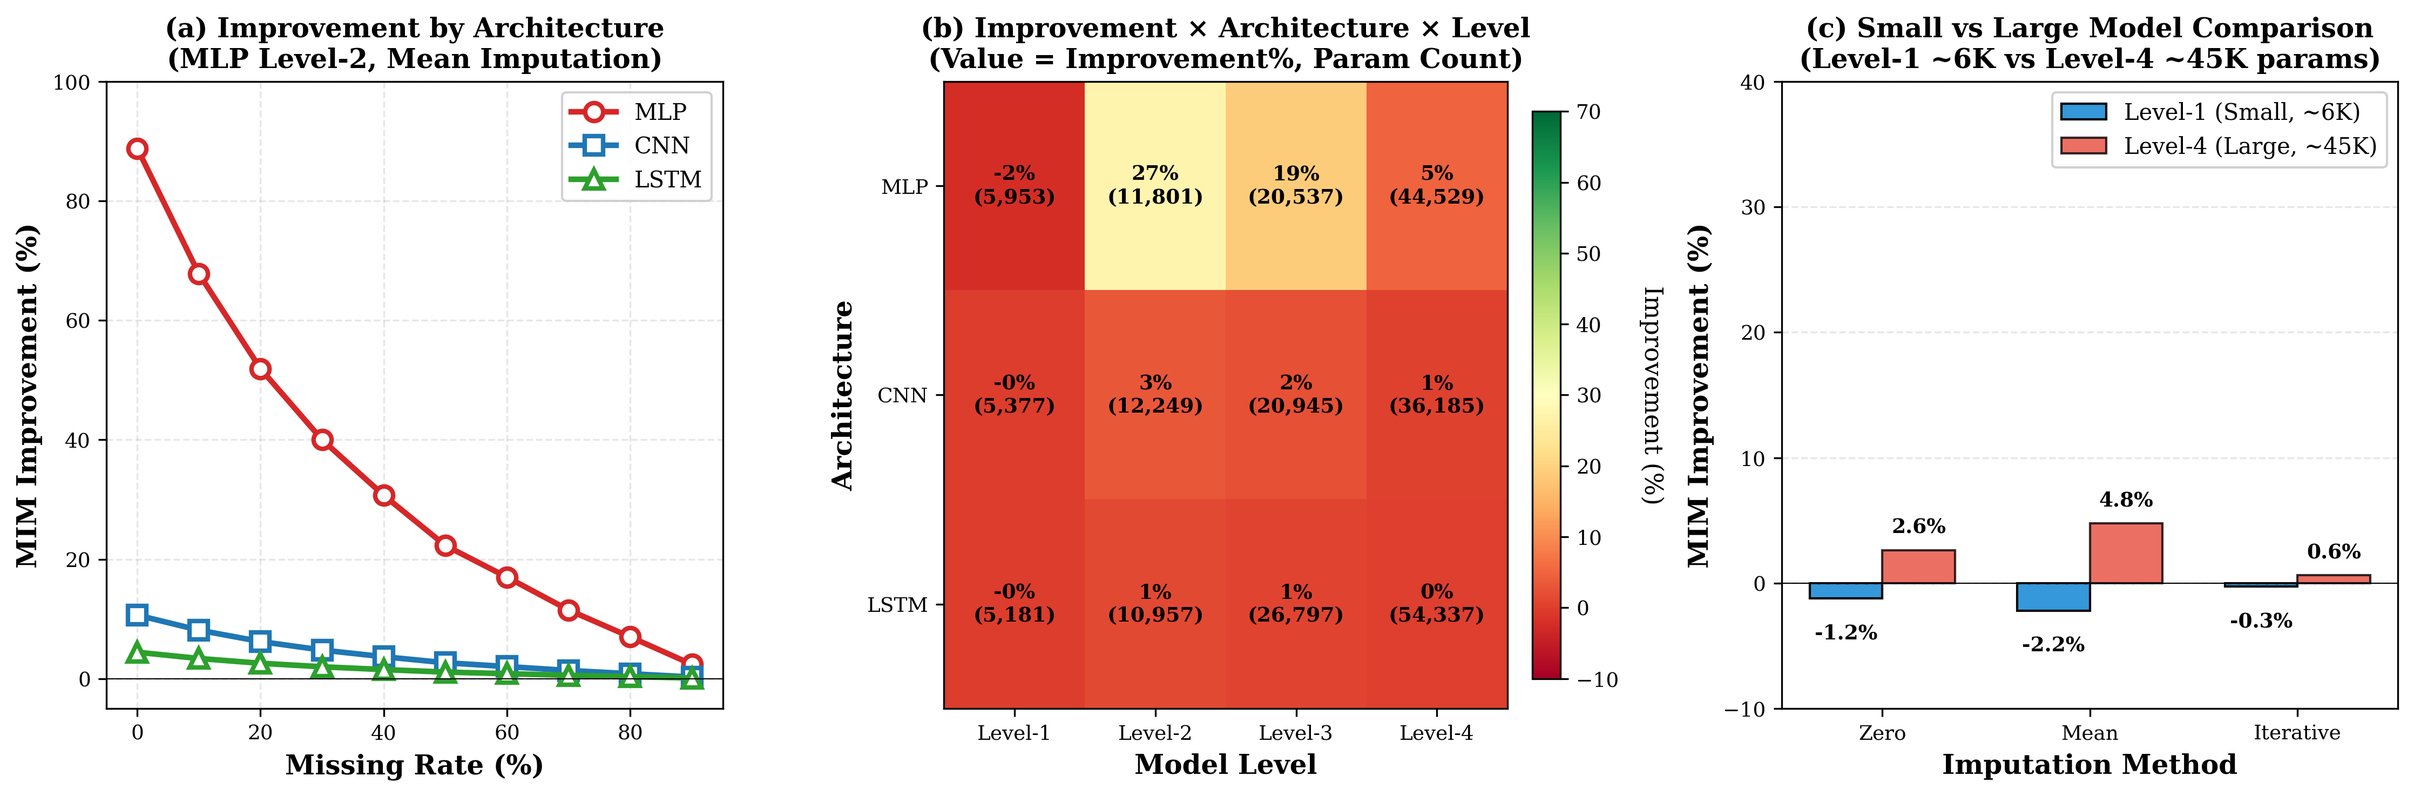
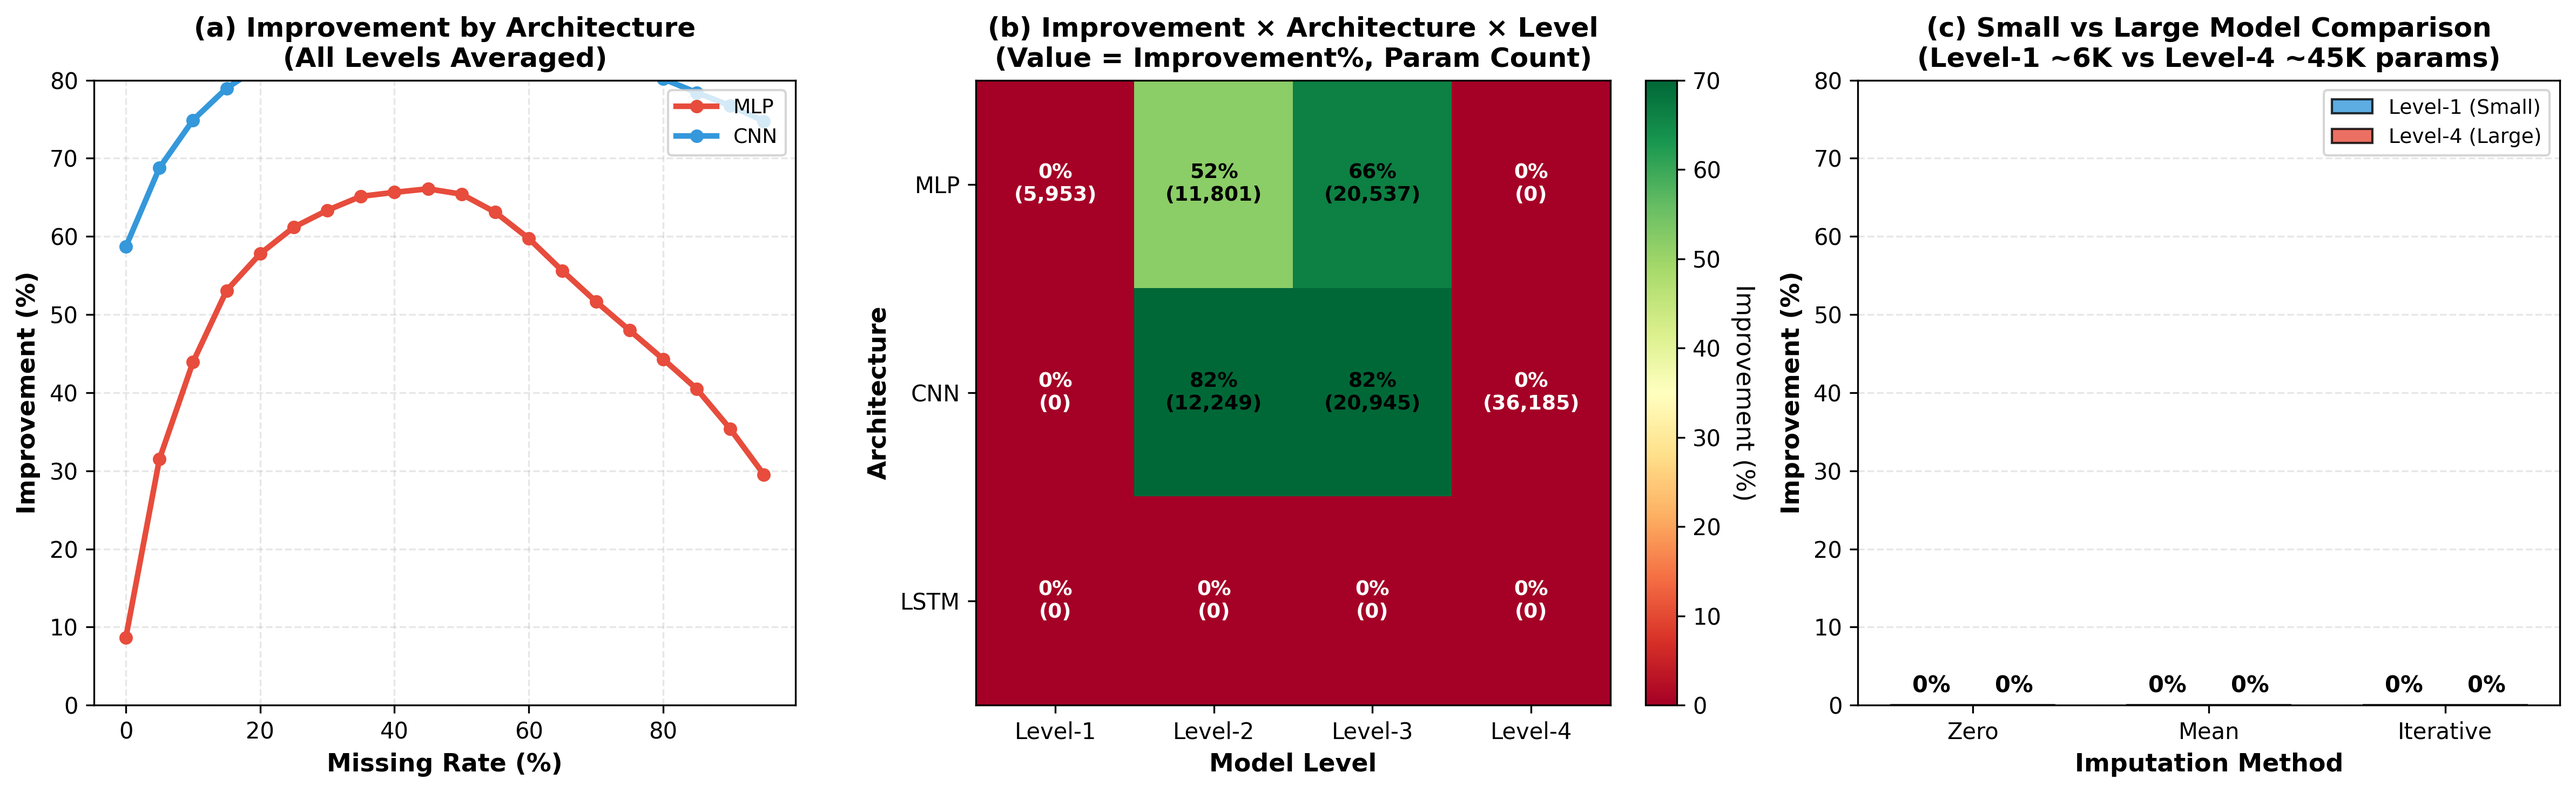
fix(paper): 修复图片引用路径，统一放到figures目录
- 更新所有includegraphics路径为新的描述性文件名

- 复制v0.5图表到paper/figures/目录

- image.png重命名为experimental_flow.png

- 简化graphicspath为{figures/}

diff --git a/paper/main_en.tex b/paper/main_en.tex
@@ -41,7 +41,7 @@
 \usepackage{threeparttable}
 
 % Image paths
-\graphicspath{{figures/}{../experiments_new/figures/paper_figures/v0.5/}}
+\graphicspath{{figures/}}
 
 \begin{document}
 
@@ -82,7 +82,7 @@ When input features exhibit significant missing data, traditional data-driven mo
 
 \begin{figure*}[!htb]
     \centering
-    \includegraphics[width=\textwidth]{fig1_problem_scenario.png}
+    \includegraphics[width=\textwidth]{problem_scenario.png}
     \caption{Schematic diagram of data missing problems in battery SOH prediction. (a) BMS monitoring chain and potential failure sources; (b) Cycle-level feature matrix and MCAR missing patterns.}
     \label{fig:problem_scenario}
 \end{figure*}
@@ -209,7 +209,7 @@ Figure~\ref{fig:baseline_vs_mim} illustrates the structural difference between t
 
 \begin{figure}[!htb]
     \centering
-    \includegraphics[width=\columnwidth]{fig2_baseline_vs_mim.png}
+    \includegraphics[width=\columnwidth]{baseline_vs_mim_comparison.png}
     \caption{Comparison of Baseline and MIM input strategies. (a) Baseline: 16-dimensional imputed features $\hat{X}$; (b) MIM: concatenated 32-dimensional extended input $[\hat{X} \,|\, M]$.}
     \label{fig:baseline_vs_mim}
 \end{figure}
@@ -263,7 +263,7 @@ Figure~\ref{fig:joint_training} illustrates the multi-missing-rate joint trainin
 
 \begin{figure*}[!htb]
     \centering
-    \includegraphics[width=\textwidth]{fig4_joint_training.png}
+    \includegraphics[width=\textwidth]{joint_training_strategy.png}
     \caption{Multi-missing-rate joint training process. The original training set generates copies at 10 missing rates, which after MIM construction are merged into $\mathcal{D}_{\text{augmented}}$ for training a unified MIM model.}
     \label{fig:joint_training}
 \end{figure*}
@@ -539,7 +539,7 @@ The complete experimental pipeline, from data preprocessing through model traini
 
 \begin{figure*}[!htbp]
     \centering
-    \includegraphics[width=0.95\textwidth]{figure6_experimental_flow.png}
+    \includegraphics[width=0.95\textwidth]{experimental_flow.png}
     \caption{Experimental pipeline overview: from XJTU battery dataset through data preprocessing, layer-wise greedy experimental design (L1--L5), to final evaluation and BMS configuration recommendations.}
     \label{fig:experimental_flow}
 \end{figure*}
@@ -558,7 +558,7 @@ The primary selection criterion is the MIM improvement rate, defined as $\Delta_
 
 \begin{figure*}[!htbp]
     \centering
-    \includegraphics[width=\textwidth]{figures/greedy_ablation_4panel.png}
+    \includegraphics[width=\textwidth]{greedy_ablation.png}
     \caption{Greedy layer-wise ablation results. (a) Layer 1: architecture comparison (MLP, CNN, LSTM); (b) Layer 2: model scale (Level 1--4); (c) Layer 3: imputation method (Zero, Mean, Iterative); (d) Layer 4: missing mechanism (MCAR, MAR, MNAR). Improvement rate = $(\text{MAE}_{\text{BL}} - \text{MAE}_{\text{MIM}}) / \text{MAE}_{\text{BL}} \times 100\%$.}
     \label{fig:greedy_ablation}
 \end{figure*}
@@ -576,7 +576,7 @@ The inverted-U trend across model scales is clearly visible in Figure~\ref{fig:g
 
 \begin{figure*}[!htbp]
     \centering
-    \includegraphics[width=0.9\textwidth]{figure4_architecture_scaling_v2.png}
+    \includegraphics[width=0.9\textwidth]{architecture_scaling.png}
     \caption{Model scale vs. MIM improvement rate across four parameter levels (Level 1--4). Left: MAE comparison between Baseline and MIM; Right: improvement rate and MAE reduction. MLP architecture, Mean imputation, MCAR mechanism, 3 seeds.}
     \label{fig:architecture_scaling}
 \end{figure*}
@@ -588,7 +588,7 @@ The third layer characterizes the critical interaction between imputation qualit
 
 \begin{figure*}[!htbp]
     \centering
-    \includegraphics[width=\textwidth]{figures/improvement_vs_mr.png}
+    \includegraphics[width=\textwidth]{improvement_vs_missing_rate.png}
     \caption{MIM improvement rate vs. missing rate (MR) for three imputation methods under the optimal configuration (MLP, Level 2, MCAR). The shaded region denotes $\pm$1 standard deviation across 3 random seeds.}
     \label{fig:improvement_vs_mr}
 \end{figure*}
@@ -613,7 +613,7 @@ A consistent gradient is observed across imputation strategies (Figure~\ref{fig:
 
 \begin{figure*}[!htbp]
     \centering
-    \includegraphics[width=0.9\textwidth]{figure3_imputation_gradient_v2.png}
+    \includegraphics[width=0.9\textwidth]{imputation_gradient.png}
     \caption{Imputation method comparison under the optimal configuration (MLP, Level 2, MCAR). MAE curves for Zero, Mean, and Iterative imputation under Baseline and MIM strategies across missing rates.}
     \label{fig:imputation_gradient}
 \end{figure*}
@@ -627,7 +627,7 @@ The mechanism comparison is shown in Figure~\ref{fig:greedy_ablation}(d) and det
 
 \begin{figure*}[!htbp]
     \centering
-    \includegraphics[width=0.9\textwidth]{figure2_missing_mechanisms_v2.png}
+    \includegraphics[width=0.9\textwidth]{missing_mechanisms.png}
     \caption{MAE comparison across three missing data mechanisms (MCAR, MAR, MNAR) under Baseline and MIM strategies. MLP + Level 2 + Mean imputation, 3 seeds.}
     \label{fig:missing_mechanisms}
 \end{figure*}
@@ -661,7 +661,7 @@ Given that Layers 1--4 exhibit consistent trends with relatively low cross-seed 
 
 \begin{figure*}[!htbp]
     \centering
-    \includegraphics[width=0.9\textwidth]{figure5_statistical_significance.png}
+    \includegraphics[width=0.9\textwidth]{statistical_significance.png}
     \caption{Statistical significance of MIM improvement across layers. Wilcoxon signed-rank test results comparing Baseline and MIM MAE distributions across seeds and missing rates. Stars denote significance levels.}
     \label{fig:statistical_significance}
 \end{figure*}
